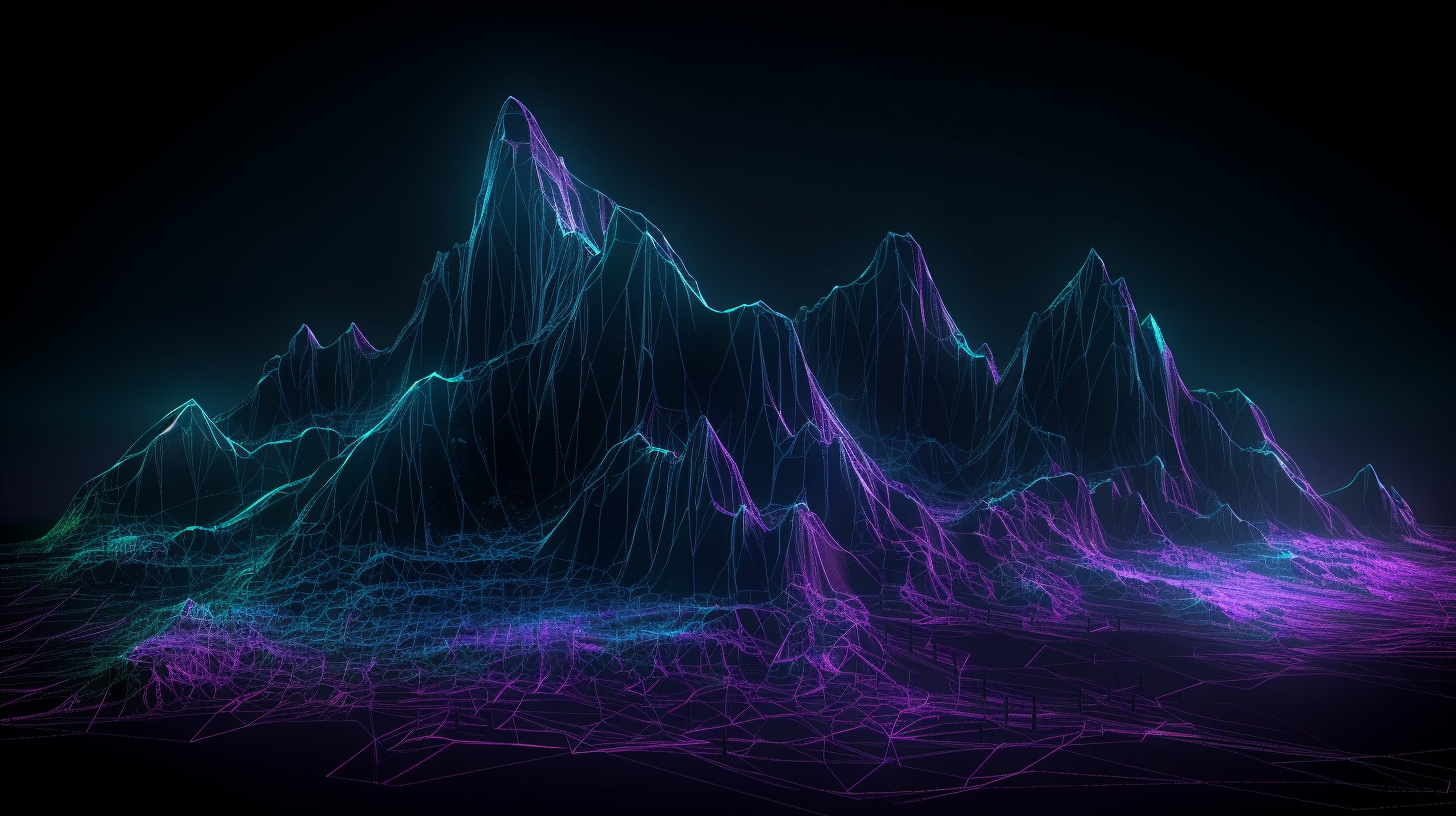
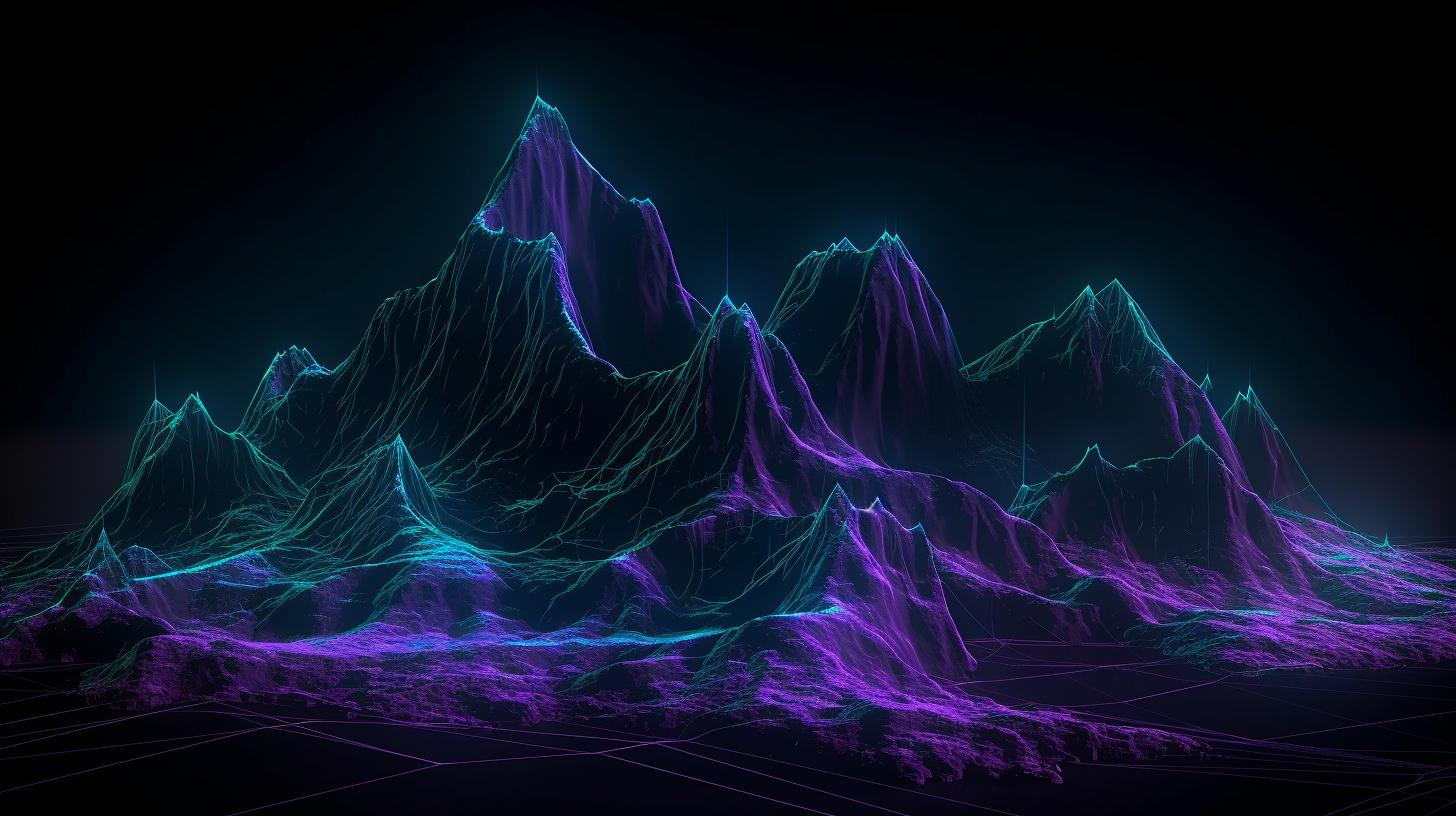
Use macOS system font stack

Changed region(s): [[0.0, 0.1225, 1.0, 0.9804], [0.989, 0.9498, 1.0, 0.9804]]

diff --git a/components/ThreeBackground.tsx b/components/ThreeBackground.tsx
@@ -80,7 +80,19 @@ export function ThreeBackground() {
       }
 
       void main() {
-        vec2 uv = vUv;
+        // --- НОВОЕ: zoom для портретных экранов ---
+        float screenAspect = uResolution.x / uResolution.y;
+        float zoom = 1.0;
+
+        // если экран "узкий и высокий" — чуть увеличиваем фон,
+        // чтобы он обрезался по краям, а не ужимался
+        if (screenAspect < 0.9) {
+          zoom = 0.6; // можно поиграть: 0.5–0.7
+        }
+
+        // масштабируем uv относительно центра (0.5, 0.5)
+        vec2 uv = (vUv - 0.5) * zoom + 0.5;
+        // --- конец блока zoom ---
 
         float aspect = uResolution.x / uResolution.y;
         vec2 centered = (uv - 0.5);
@@ -89,16 +101,12 @@ export function ThreeBackground() {
         float t = uTime * 0.10;
 
         // --- Более "рандомные" водяные волны ---
-        // крупная структура
         float base = fbm(centered * 8.8 + vec2(t * 0.35, -t * 0.25));
-        // мелкие детали
         float detail = fbm(centered * 10.0 - vec2(t * 0.55, t * 0.4));
         float waves = base * 1.7 + detail * 0.3;
 
-        // немного направленной волны, чтобы были "полосы", но очень мягко
         waves += 0.10 * sin(uv.y * 35.0 + t * 1.6);
 
-        // финальное смещение (помягче)
         vec2 waveOffset = vec2(
           (waves - 0.5) * 0.03,
           (waves - 0.5) * 0.03
@@ -107,15 +115,13 @@ export function ThreeBackground() {
         // --- Параллакс/наклон от мыши (ослаблен) ---
         vec2 m = uMouse;
         vec2 mCentered = (m - 0.2) * vec2(1.0, -1.0);
-        vec2 parallaxOffset = mCentered * 0.005; // было 0.04
+        vec2 parallaxOffset = mCentered * 0.005;
 
         vec2 distortedUv = uv + waveOffset - parallaxOffset;
 
-        
-        // горизонтальное отражение жёсткое:
+        // горизонтальное отражение
         distortedUv.x = 1.0 - distortedUv.x;
 
-        // clamp на всякий случай
         distortedUv = clamp(distortedUv, 0.0, 1.0);
 
         vec4 tex = texture2D(uTexture, distortedUv);
@@ -171,7 +177,6 @@ export function ThreeBackground() {
 
     window.addEventListener("resize", onResize);
 
-    // мышь: только обновляем положение для параллакса (без влияния на волны)
     const onMouseMove = (e: MouseEvent) => {
       const x = e.clientX / window.innerWidth;
       const y = e.clientY / window.innerHeight;
